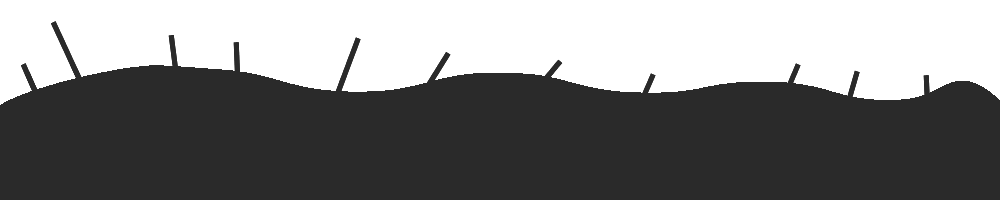
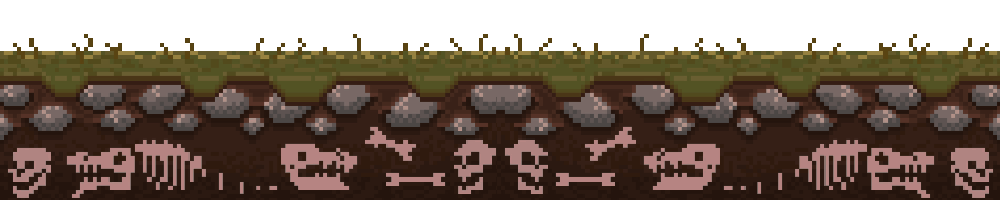
Updated ground and added clouds

diff --git a/main.py b/main.py
@@ -16,11 +16,14 @@ surface_sky = pygame.image.load("resources/elements/sky.png")
 surface_damage = pygame.image.load("resources/elements/damage.png")
 surface_gameover = pygame.image.load("resources/elements/gameover.png")
 surface_ground = pygame.image.load("resources/elements/ground.png")
+surface_clouds = pygame.image.load("resources/elements/clouds.png")
+surface_clouds_bg = pygame.image.load("resources/elements/clouds_bg.png")
 surface_phil = pygame.image.load("resources/elements/animations/phil/frame_00.gif")
 ground_x_pos = 1000
-phil_y_pos = 260
+cloud_x_pos = 1000
+cloud_bg_x_pos = 1000
+phil_y_pos = 200
 jumping = False
-
 
 iq = 10
 
@@ -81,7 +84,7 @@ while True:
     if keys[pygame.K_LSHIFT] or keys[pygame.K_RSHIFT]: speed_mult += 0.0005
 
     # ON JUMP
-    if keys[pygame.K_SPACE] and phil_y_pos >= 260 and not keys[pygame.K_LSHIFT] or keys[pygame.K_RSHIFT]:
+    if keys[pygame.K_SPACE] and phil_y_pos >= 200 and not keys[pygame.K_LSHIFT] or keys[pygame.K_RSHIFT]:
         jumping = True
     if jumping:
         if phil_y_pos > -300:
@@ -90,14 +93,24 @@ while True:
         else:
             jumping = False
     else:
-        if phil_x_pos > 100 and not phil_y_pos < 260: phil_x_pos -= 7
-        if phil_y_pos < 260:
+        if phil_x_pos > 100 and not phil_y_pos < 200: phil_x_pos -= 6 * speed_mult
+        if phil_y_pos < 200:
             phil_y_pos += 10
 
     # MOVE GROUND
     ground_x_pos -= 4.5 * speed_mult
     if ground_x_pos < 0:
         ground_x_pos = 1000
+
+    # MOVE CLOUDS
+    cloud_x_pos -= 0.5 * speed_mult
+    if cloud_x_pos < 0:
+        cloud_x_pos = 1000
+
+    # MOVE CLOUDS BG
+    cloud_bg_x_pos -= 0.3 * speed_mult
+    if cloud_bg_x_pos < 0:
+        cloud_bg_x_pos = 1000
 
     # MOVE LEGIRIO
     legirio_pos_x -= 3.5 * speed_mult
@@ -108,8 +121,11 @@ while True:
         if legirio_pos_y < 300: legirio_pos_y = 500
 
     screen.blit(surface_sky, (0, 0))
-    screen.blit(surface_ground, (ground_x_pos, 400))
-    screen.blit(surface_ground, (ground_x_pos - 1000, 400))
+    screen.blit(surface_ground, (ground_x_pos, 450))
+    screen.blit(surface_ground, (ground_x_pos - 1000, 450))
+
+    screen.blit(surface_clouds_bg, (cloud_bg_x_pos, 110))
+    screen.blit(surface_clouds_bg, (cloud_bg_x_pos - 1000, 110))
 
     slowUpdateInterval = max(base_slowUpdateInterval / speed_mult, 1)
 
